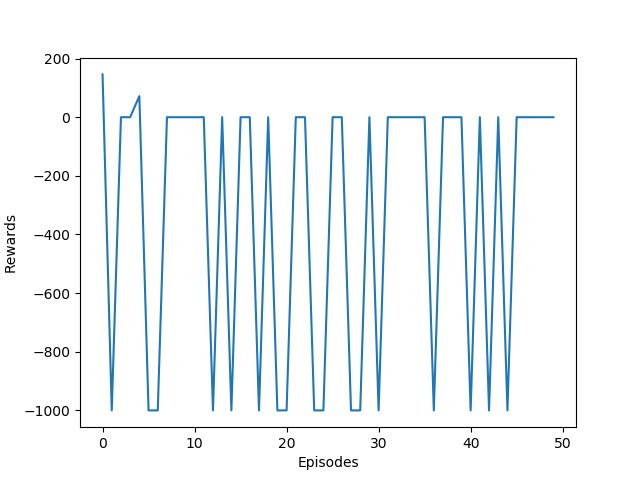
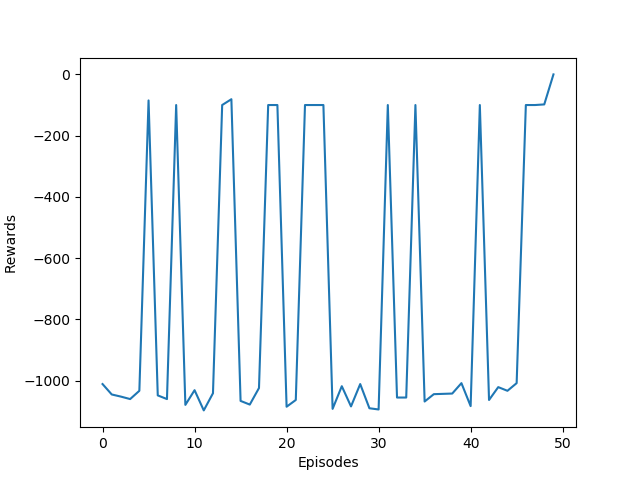
Add more experiments.

diff --git a/src/drone_training/drone_training/src/quadcopter_env.py b/src/drone_training/drone_training/src/quadcopter_env.py
@@ -189,8 +189,9 @@ class QuadCopterEnv(gym.Env):
 
     def improved_distance_reward(self, current_pose):
         current_dist = self.calculate_dist_between_two_points(current_pose.position, self.desired_pose.position)
-        if current_dist < 0.3:
-            reward = +1
+        if current_dist < 0.8: #Reached the goal
+            reward = +1000
+            print "Reached the goal"
         else:
             reward = -1
         return reward
@@ -206,7 +207,7 @@ class QuadCopterEnv(gym.Env):
         pitch_bad = not(-self.max_incl < pitch < self.max_incl)
         roll_bad = not(-self.max_incl < roll < self.max_incl)
         altitude_bad = not(self.min_altitude < data_position.position.z < self.max_altitude)
-        distance_bad = current_dist > 6.0 # Too away. Punish harshly.
+        distance_bad = current_dist > 5.0 # Too away. Punish harshly.
         if altitude_bad or pitch_bad or roll_bad:
             rospy.loginfo ("(Drone flight status is wrong) >>> ("+str(altitude_bad)+","+str(pitch_bad)+","+str(roll_bad)+")")
             done = True
@@ -216,4 +217,6 @@ class QuadCopterEnv(gym.Env):
             reward = -2000
         else:
             reward = self.improved_distance_reward(data_position)
+            if reward > 0:
+                done = True
         return reward,done

diff --git a/src/drone_training/drone_training/src/start_training.py b/src/drone_training/drone_training/src/start_training.py
@@ -91,7 +91,6 @@ if __name__ == '__main__':
         
         # for each episode, we test the robot for nsteps
         for t in itertools.count():
-            print "Step %i"%(t)
             state_ = np.zeros(3)
             state_[0] = int(np.digitize(state[2],vertical_bin))# z first
             state_[1] = int(np.digitize(state[0],horizontal_bins[0]))
